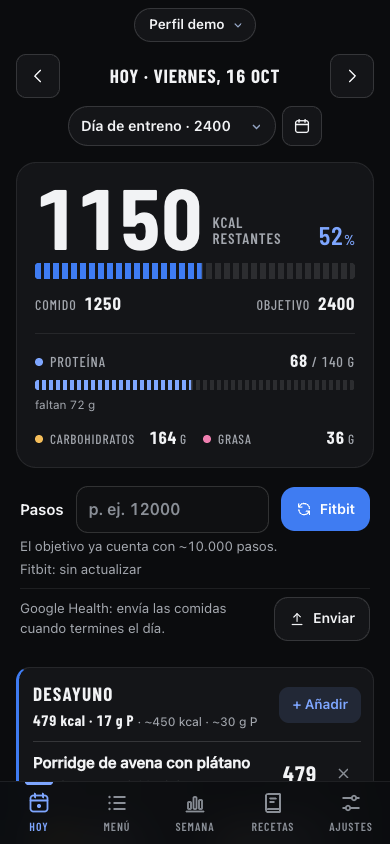
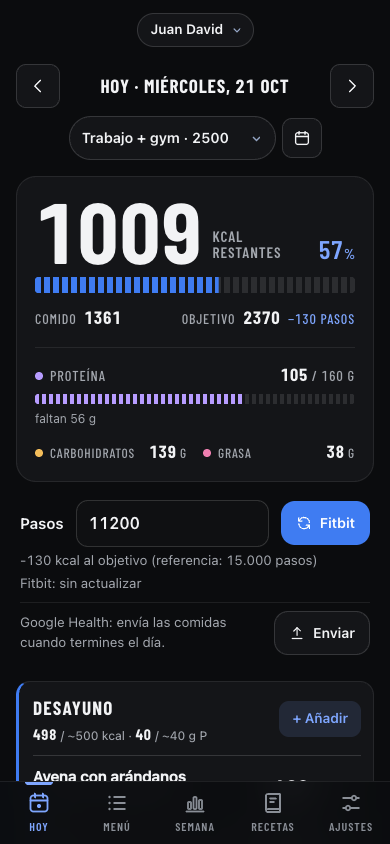
Actualiza DietApp: integración con Google Health y Calendar
- Nuevas pestañas Google Health y Google Calendar al frente de la ficha
- Capturas nuevas, incluida la sección de ajustes de Google
- Botón «Probar» para proyectos con demo publicada

diff --git a/lib/projects.ts b/lib/projects.ts
@@ -383,85 +383,88 @@ export const PROJECTS: Project[] = [
   {
     id: "dietapp",
     name: "DietApp",
-    badge: "PWA de nutrición que uso a diario",
+    badge: "PWA de nutrición conectada a Google",
     summary:
-      "App de nutrición que uso a diario: menú intercambiable, registro de comidas y ajuste automático de cantidades para cuadrar kcal y proteína. Instalable en Android e iOS, funciona sin conexión y se sincroniza con Google Health (Fitbit) sin servidor propio. JavaScript vanilla, sin build ni dependencias.",
+      "App de nutrición que uso a diario: menú intercambiable, registro de comidas y ajuste automático de cantidades para cuadrar kcal y proteína. Se conecta con Google sin servidor propio: trae pasos y peso del Fitbit desde Google Health, le envía las comidas del día y lee Google Calendar para saber si ese día trabajo. Instalable en Android e iOS, funciona sin conexión. JavaScript vanilla, sin build ni dependencias.",
     tint: "emerald",
-    stack: ["JavaScript", "PWA", "JWT / OAuth"],
+    stack: ["JavaScript", "PWA", "JWT / OAuth", "Playwright"],
     device: "phone",
     repo: "https://github.com/juaandix/menu-jd",
+    demo: "https://juaandix.github.io/menu-jd/",
     screenshots: [
       { src: "/dietapp/01-hoy.png", alt: "Hoy" },
-      { src: "/dietapp/02-franjas.png", alt: "Franjas del día" },
-      { src: "/dietapp/03-editor.png", alt: "Editor de platos" },
-      { src: "/dietapp/04-sustitutos.png", alt: "Sustitutos" },
-      { src: "/dietapp/05-semana.png", alt: "Semana" },
-      { src: "/dietapp/06-menu.png", alt: "Menú" },
+      { src: "/dietapp/02-google.png", alt: "Conexión con Google" },
+      { src: "/dietapp/03-franjas.png", alt: "Franjas del día" },
+      { src: "/dietapp/04-anadir.png", alt: "Añadir comida" },
+      { src: "/dietapp/05-plato.png", alt: "Menú" },
+      { src: "/dietapp/06-sustitutos.png", alt: "Sustitutos" },
+      { src: "/dietapp/07-semana.png", alt: "Semana" },
+      { src: "/dietapp/08-fitbit.png", alt: "Pasos y peso de Fitbit" },
     ],
     features: [
       {
+        id: "health",
+        label: "Google Health",
+        screenshotIndex: 7,
+        heading: "Fitbit ↔ Google Health, en los dos sentidos",
+        description:
+          "Lee los pasos y el peso del Fitbit con la Google Health API v4 (la Fitbit Web API se apaga en octubre de 2026) y le devuelve las comidas registradas con sus kcal y macros. Al abrir la app o recuperar conexión se sincronizan solos los últimos días si el token sigue vivo.",
+        points: [
+          "Pasos por dailyRollUp y peso por día local",
+          "Comidas como nutrition-log con su franja y hora",
+          "Envío idempotente: firma por día, borra y recrea si cambia",
+        ],
+      },
+      {
+        id: "calendar",
+        label: "Google Calendar",
+        screenshotIndex: 0,
+        heading: "El calendario decide el objetivo del día",
+        description:
+          "Busca una palabra clave («turno») en los eventos del día y propone el tipo de día: trabajo o libre. El objetivo de kcal sale de ese tipo de día y se corrige con los pasos reales que trae Fitbit, así que el marcador se ajusta sin tocar nada.",
+        points: [
+          "OAuth 2.0 en el navegador con Google Identity Services",
+          "Un token corto por permiso, sin mezclar scopes (evita el 403)",
+          "Script de Google cargado solo al usarlo: el resto va offline",
+        ],
+      },
+      {
         id: "today",
         label: "Registro",
-        screenshotIndex: 0,
-        heading: "Objetivo que se ajusta a tu día",
+        screenshotIndex: 2,
+        heading: "Registrar en pocos toques",
         description:
-          "El marcador muestra las kcal restantes y la proteína pendiente. El objetivo depende del tipo de día (trabajo, gimnasio, descanso) y se corrige con los pasos reales: (pasos − referencia) × 0,0004 × kg, redondeado y limitado a ±400 kcal.",
+          "Comidas por franja con su objetivo, productos rápidos de un toque, «lo de siempre», copiar de otro día y deshacer. El objetivo depende del tipo de día y de los pasos: (pasos − referencia) × 0,0004 × kg, limitado a ±400 kcal.",
         points: [
-          "Objetivo por tipo de día + ajuste por pasos",
-          "Varios perfiles, cada uno con su propio registro",
-          "Copia de seguridad JSON con migración de versiones",
+          "Buscador de platos e ingredientes del catálogo",
+          "Escáner de códigos (Open Food Facts) y OCR en el móvil",
+          "Varios perfiles, cada uno con su plan y su registro",
         ],
       },
       {
         id: "fit",
         label: "Ajuste automático",
-        screenshotIndex: 2,
+        screenshotIndex: 4,
         heading: "Cantidades calculadas, no adivinadas",
         description:
-          "Al cambiar un ingrediente, el resto del plato se reajusta para seguir cumpliendo sus macros. Es un problema de mínimos cuadrados con límites, resuelto por descenso de coordenadas sobre los gramos y redondeado a cantidades que se pueden pesar en una cocina.",
+          "Al cambiar un ingrediente, el resto del plato se reajusta para seguir cumpliendo sus macros: mínimos cuadrados con límites, resuelto por descenso de coordenadas. Para cada ingrediente propone los 5 mejores sustitutos del catálogo por grupo y macros.",
         points: [
           "Tolerancias ponderadas: ±15 kcal y ±3 g de proteína",
-          "Unidades enteras, gramos de 5 en 5 y topes por grupo",
-          "Ingredientes fijados a mano que el ajuste respeta",
-        ],
-      },
-      {
-        id: "subs",
-        label: "Sustitutos",
-        screenshotIndex: 3,
-        heading: "Recomendador de sustitutos",
-        description:
-          "Para cada ingrediente propone los 5 alimentos del catálogo que mejor lo reemplazan: mismo grupo nutricional, macros parecidos y una cantidad realista. Excluye lo que has marcado que te falta en casa.",
-        points: [
-          "Catálogo de 145 alimentos con macros por 100 g",
-          "Parser de ingredientes en texto libre → catálogo",
-          "Conversión cocido ↔ crudo para la lista de la compra",
+          "Gramos de 5 en 5, unidades enteras y topes por grupo",
+          "Catálogo de 145 alimentos con parser de texto libre",
         ],
       },
       {
         id: "week",
         label: "Semana",
-        screenshotIndex: 4,
-        heading: "Semana, compra y costes",
+        screenshotIndex: 6,
+        heading: "Semana, peso y offline-first",
         description:
-          "Medias de kcal y proteína frente al objetivo, balance semanal y gráfica en SVG sin librerías. La lista de la compra suma los ingredientes de lo planificado y calcula el coste con los precios que introduces.",
+          "Medias de kcal, proteína y pasos frente al objetivo, balance y gráficas en SVG sin librerías. El service worker, de red primero y saltándose la caché HTTP de GitHub Pages, hace que la app funcione sin conexión sin mezclar versiones tras un despliegue.",
         points: [
-          "Gráficas SVG generadas a mano",
-          "Tendencia de peso por regresión lineal (28 días)",
-          "Planificación de días futuros con Deshacer",
-        ],
-      },
-      {
-        id: "sync",
-        label: "Offline + Google",
-        screenshotIndex: 1,
-        heading: "Offline-first e integración con Google Health",
-        description:
-          "Service worker con caché versionada, de red primero, para no mezclar versiones tras un despliegue en GitHub Pages. OAuth 2.0 en el navegador para leer pasos y peso y enviar las comidas a Google Health, y para proponer el tipo de día a partir de Google Calendar.",
-        points: [
-          "Instalable en iOS y Android, funciona sin conexión",
-          "Envío idempotente: solo reenvía los días que cambian",
-          "Google Health API v4 + Calendar API, sin backend",
+          "Tendencia de peso por regresión lineal",
+          "Lista de la compra con costes y conversión cocido ↔ crudo",
+          "64 tests sin framework, con la API de Google simulada",
         ],
       },
     ],
@@ -472,7 +475,9 @@ export const PROJECTS: Project[] = [
       "OAuth 2.0",
       "Google Health API",
       "Google Calendar API",
-      "SVG",
+      "Google Identity Services",
+      "Open Food Facts",
+      "tesseract.js",
       "Offline-first",
     ],
   },

diff --git a/components/sections/Projects.tsx b/components/sections/Projects.tsx
@@ -205,15 +205,28 @@ function ProjectCard({ project, index, dimmed }: { project: Project; index: numb
 
               <div className="mt-auto flex flex-wrap items-end justify-between gap-4 pt-8">
                 <p className="max-w-[40ch] font-mono text-[0.75rem] leading-relaxed text-muted">{project.tags.join(" · ")}</p>
-                <a
-                  href={project.repo}
-                  target="_blank"
-                  rel="noopener noreferrer"
-                  className="group inline-flex h-10 items-center gap-1.5 rounded-full glass px-4 text-[0.875rem] transition-colors hover:bg-white/10"
-                >
-                  Código
-                  <ArrowUpRight size={16} className="transition-transform group-hover:-translate-y-0.5 group-hover:translate-x-0.5" />
-                </a>
+                <div className="flex gap-2">
+                  {project.demo && (
+                    <a
+                      href={project.demo}
+                      target="_blank"
+                      rel="noopener noreferrer"
+                      className="group inline-flex h-10 items-center gap-1.5 rounded-full glass px-4 text-[0.875rem] transition-colors hover:bg-white/10"
+                    >
+                      Probar
+                      <ArrowUpRight size={16} className="transition-transform group-hover:-translate-y-0.5 group-hover:translate-x-0.5" />
+                    </a>
+                  )}
+                  <a
+                    href={project.repo}
+                    target="_blank"
+                    rel="noopener noreferrer"
+                    className="group inline-flex h-10 items-center gap-1.5 rounded-full glass px-4 text-[0.875rem] transition-colors hover:bg-white/10"
+                  >
+                    Código
+                    <ArrowUpRight size={16} className="transition-transform group-hover:-translate-y-0.5 group-hover:translate-x-0.5" />
+                  </a>
+                </div>
               </div>
             </div>
           </div>

diff --git a/components/ui/ProjectOrbit.tsx b/components/ui/ProjectOrbit.tsx
@@ -17,7 +17,7 @@ const PICKS: Record<string, number[][]> = {
   documind: [[0], [3], [5]],
   prodsync: [[1], [6]],
   kickscontrol: [[0], [5], [6]],
-  dietapp: [[0, 2], [3, 4]],
+  dietapp: [[0, 1], [6, 7]],
 };
 
 const FRAMES = PROJECTS.flatMap((p) =>
